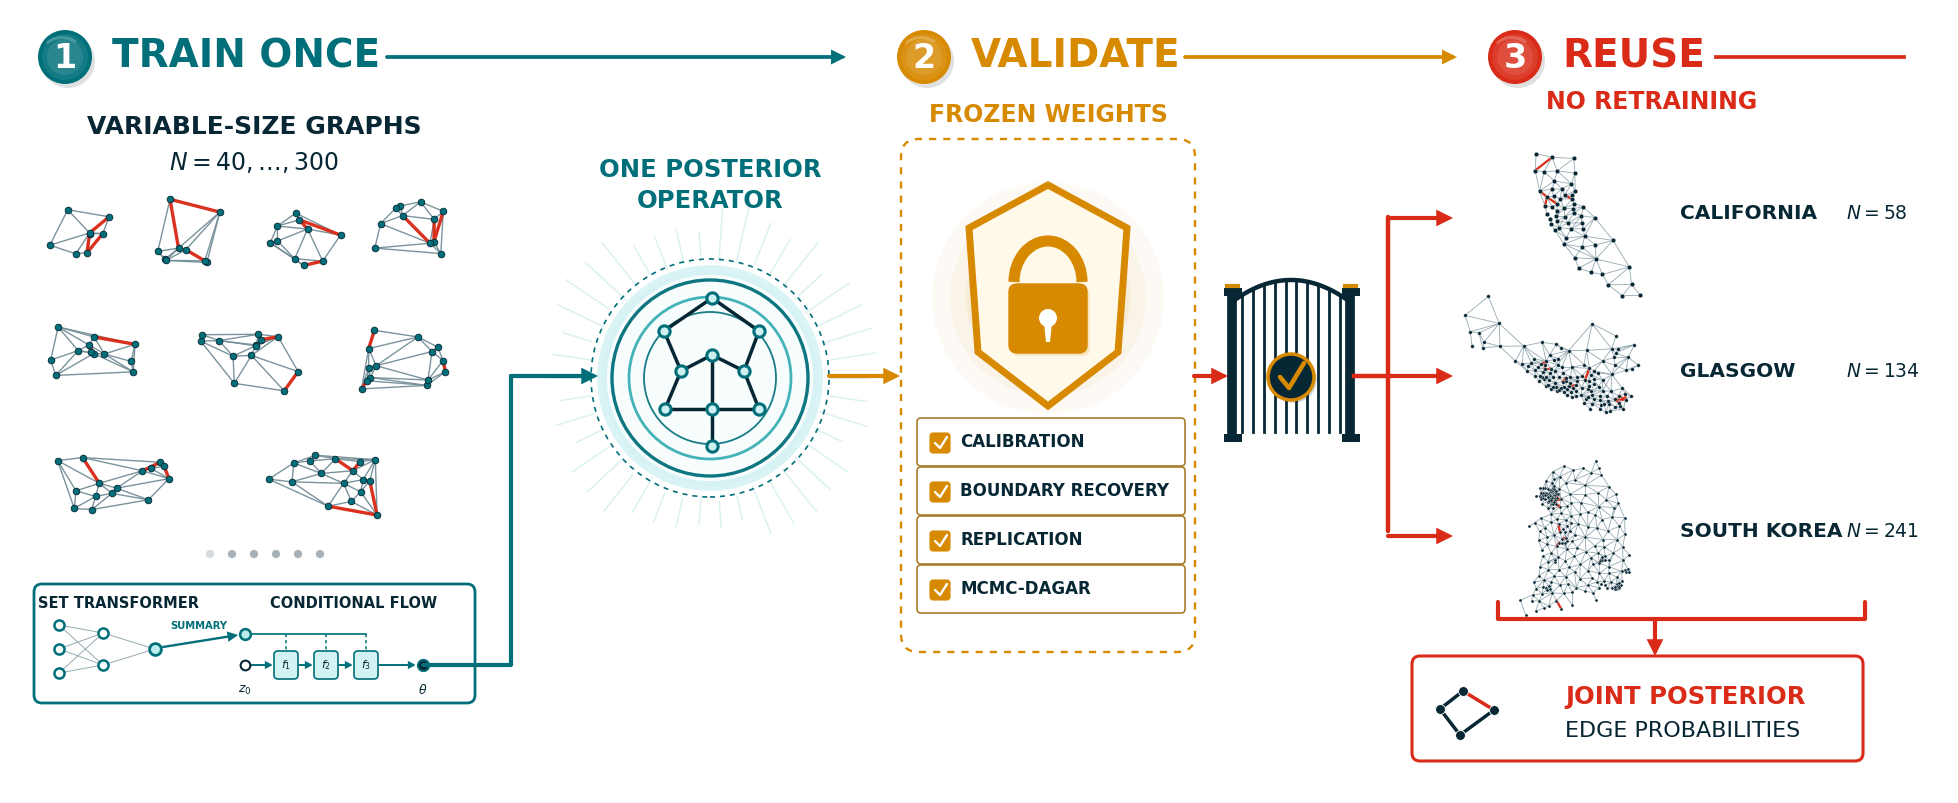
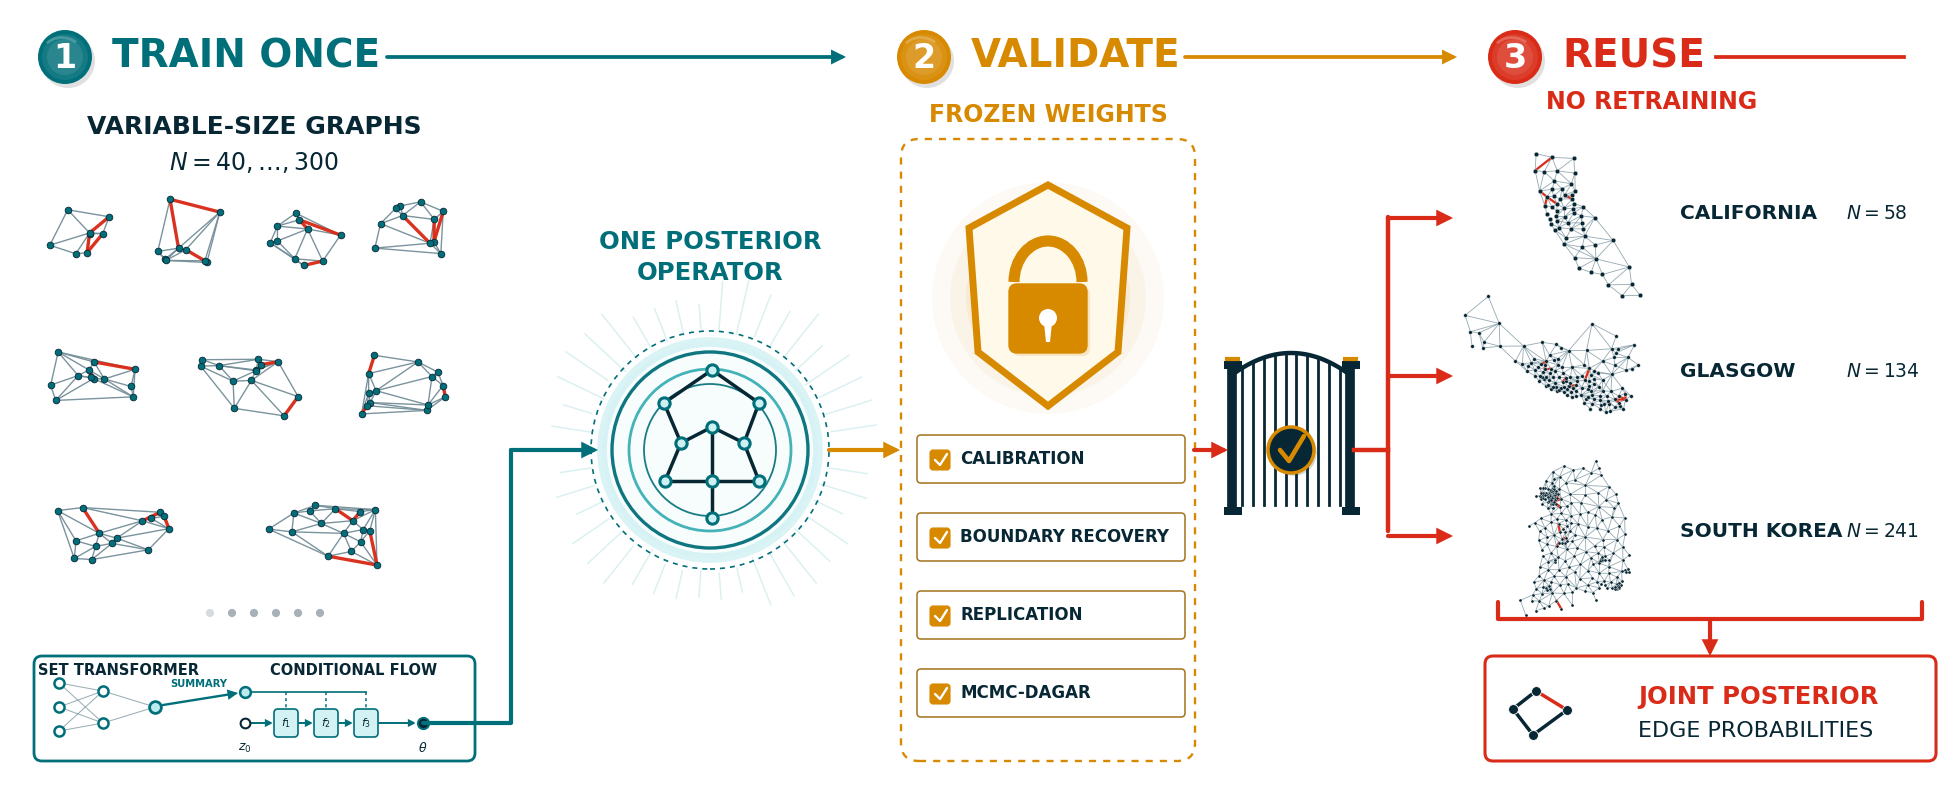
Align transformer and conditional flow connection

diff --git a/Figure Generation/generate_abi_workflow.py b/Figure Generation/generate_abi_workflow.py
@@ -226,25 +226,25 @@ def draw_training_graphs(axis):
     axis.text(254, 641, r"$N=40,\ldots,300$", ha="center", va="center", color=INK, fontsize=17)
     positions = (
         (88, 570), (195, 570), (303, 570), (410, 570),
-        (95, 445), (250, 445), (405, 445),
-        (112, 320), (315, 320),
+        (95, 420), (250, 420), (405, 420),
+        (112, 270), (315, 270),
     )
     node_counts = (8, 9, 10, 11, 12, 13, 14, 15, 17)
     widths = (84, 91, 93, 94, 112, 118, 112, 145, 142)
     for index, (center, n_nodes, width) in enumerate(zip(positions, node_counts, widths)):
         draw_simulated_graph(axis, center, width, 75, n_nodes, 1800 + index)
     for index in range(6):
-        axis.add_patch(Circle((210 + index * 22, 249), 4.1, facecolor="#d5dcdf" if index == 0 else "#a6b2b8", edgecolor="none", zorder=3))
+        axis.add_patch(Circle((210 + index * 22, 190), 4.1, facecolor="#d5dcdf" if index == 0 else "#a6b2b8", edgecolor="none", zorder=3))
 
 
 def draw_network_block(axis):
-    rounded_box(axis, (34, 100), 441, 119, TEAL, linewidth=2.0, radius=8, shadow=True)
-    axis.text(118, 200, "SET TRANSFORMER", color=INK, fontsize=10.5, weight="bold", ha="center", va="center")
-    axis.text(354, 200, "CONDITIONAL FLOW", color=INK, fontsize=10.5, weight="bold", ha="center", va="center")
+    rounded_box(axis, (34, 42), 441, 105, TEAL, linewidth=2.0, radius=8, shadow=True)
+    axis.text(118, 133, "SET TRANSFORMER", color=INK, fontsize=10.5, weight="bold", ha="center", va="center")
+    axis.text(354, 133, "CONDITIONAL FLOW", color=INK, fontsize=10.5, weight="bold", ha="center", va="center")
 
-    set_nodes = np.array([[59, 130], [59, 154], [59, 178]])
-    attention_nodes = np.array([[103, 138], [103, 170]])
-    summary_node = np.array([[155, 154]])
+    set_nodes = np.array([[59, 72], [59, 96], [59, 120]])
+    attention_nodes = np.array([[103, 80], [103, 112]])
+    summary_node = np.array([[155, 96]])
     for source in set_nodes:
         for target in attention_nodes:
             axis.plot([source[0], target[0]], [source[1], target[1]], color=EDGE, linewidth=0.75, alpha=0.72, zorder=3)
@@ -255,34 +255,34 @@ def draw_network_block(axis):
         axis.scatter(points[:, 0], points[:, 1], s=53, facecolor=WHITE, edgecolor=TEAL, linewidth=1.8, zorder=5)
     axis.scatter(summary_node[:, 0], summary_node[:, 1], s=72, facecolor=TEAL_LIGHT, edgecolor=TEAL, linewidth=2.0, zorder=6)
 
-    context_node = (245, 169)
-    arrow(axis, (163, 156), (238, 168), TEAL, linewidth=1.7, mutation_scale=12)
-    axis.text(199, 172, "SUMMARY", color=TEAL, fontsize=7.2, weight="bold", ha="center", va="bottom")
+    context_node = (245, 111)
+    arrow(axis, (163, 98), (238, 110), TEAL, linewidth=1.7, mutation_scale=12)
+    axis.text(199, 114, "SUMMARY", color=TEAL, fontsize=7.2, weight="bold", ha="center", va="bottom")
     axis.scatter([context_node[0]], [context_node[1]], s=60, facecolor=TEAL_LIGHT, edgecolor=TEAL, linewidth=1.8, zorder=6)
 
-    base_node = (245, 138)
+    base_node = (245, 80)
     axis.scatter([base_node[0]], [base_node[1]], s=49, facecolor=WHITE, edgecolor=INK, linewidth=1.5, zorder=6)
-    axis.text(base_node[0], 113, r"$z_0$", color=INK, fontsize=9.0, ha="center", va="center")
+    axis.text(base_node[0], 55, r"$z_0$", color=INK, fontsize=9.0, ha="center", va="center")
     flow_centers = (286, 326, 366)
     previous_x = base_node[0] + 5
     for index, x in enumerate(flow_centers, start=1):
-        arrow(axis, (previous_x, 138), (x - 13, 138), TEAL, linewidth=1.4, mutation_scale=9, zorder=5)
-        rounded_box(axis, (x - 12, 124), 24, 28, TEAL, facecolor=blend(TEAL_LIGHT, amount=0.35), linewidth=1.2, radius=4, zorder=6)
-        axis.text(x, 138, rf"$f_{index}$", color=INK, fontsize=8.0, ha="center", va="center", zorder=7)
-        axis.plot([x, x], [169, 153], color=TEAL, linewidth=1.1, linestyle=(0, (2, 2)), zorder=4)
+        arrow(axis, (previous_x, 80), (x - 13, 80), TEAL, linewidth=1.4, mutation_scale=9, zorder=5)
+        rounded_box(axis, (x - 12, 66), 24, 28, TEAL, facecolor=blend(TEAL_LIGHT, amount=0.35), linewidth=1.2, radius=4, zorder=6)
+        axis.text(x, 80, rf"$f_{index}$", color=INK, fontsize=8.0, ha="center", va="center", zorder=7)
+        axis.plot([x, x], [111, 95], color=TEAL, linewidth=1.1, linestyle=(0, (2, 2)), zorder=4)
         previous_x = x + 13
-    axis.plot([context_node[0], flow_centers[-1]], [169, 169], color=TEAL, linewidth=1.2, zorder=4)
+    axis.plot([context_node[0], flow_centers[-1]], [111, 111], color=TEAL, linewidth=1.2, zorder=4)
 
-    posterior_node = (423, 138)
-    arrow(axis, (previous_x, 138), (posterior_node[0] - 7, 138), TEAL, linewidth=1.4, mutation_scale=9, zorder=5)
+    posterior_node = (423, 80)
+    arrow(axis, (previous_x, 80), (posterior_node[0] - 7, 80), TEAL, linewidth=1.4, mutation_scale=9, zorder=5)
     axis.scatter([posterior_node[0]], [posterior_node[1]], s=66, facecolor=INK, edgecolor=TEAL, linewidth=1.4, zorder=6)
-    axis.text(posterior_node[0], 113, r"$\theta$", color=INK, fontsize=9.0, ha="center", va="center")
-    axis.plot([423, 475, 511, 511], [138, 138, 138, 427], color=TEAL, linewidth=3.0, solid_capstyle="round", zorder=7)
-    arrow(axis, (511, 427), (598, 427), TEAL, linewidth=3.0, mutation_scale=18)
+    axis.text(posterior_node[0], 55, r"$\theta$", color=INK, fontsize=9.0, ha="center", va="center")
+    axis.plot([423, 475, 511, 511], [80, 80, 80, 353], color=TEAL, linewidth=3.0, solid_capstyle="round", zorder=7)
+    arrow(axis, (511, 353), (598, 353), TEAL, linewidth=3.0, mutation_scale=18)
 
 
 def draw_posterior_operator(axis):
-    center = np.array([710.0, 425.0])
+    center = np.array([710.0, 353.0])
     rng = np.random.default_rng(4021)
     for angle in np.linspace(0, 2 * np.pi, 42, endpoint=False):
         inner = 118 + rng.uniform(-4, 6)
@@ -300,15 +300,15 @@ def draw_posterior_operator(axis):
     ):
         axis.add_patch(Circle(center, radius, facecolor="none", edgecolor=color, linewidth=linewidth, alpha=alpha, linestyle=linestyle, zorder=3))
     nodes = np.array(
-        [[664, 472], [712, 505], [759, 472], [681, 432], [712, 448], [744, 432], [665, 394], [712, 394], [759, 394], [712, 357]]
+        [[664, 400], [712, 433], [759, 400], [681, 360], [712, 376], [744, 360], [665, 322], [712, 322], [759, 322], [712, 285]]
     )
     links = ((0, 1), (1, 2), (0, 3), (2, 5), (3, 4), (4, 5), (3, 6), (4, 7), (5, 8), (6, 7), (7, 8), (7, 9))
     for first, second in links:
         axis.plot(nodes[[first, second], 0], nodes[[first, second], 1], color=INK, linewidth=2.5, zorder=5)
     axis.scatter(nodes[:, 0], nodes[:, 1], s=66, facecolor=blend(TEAL_LIGHT, amount=0.25), edgecolor=TEAL, linewidth=2.2, zorder=6)
-    axis.text(710, 626, "ONE POSTERIOR", ha="center", color=TEAL, fontsize=17.5, weight="bold")
-    axis.text(710, 595, "OPERATOR", ha="center", color=TEAL, fontsize=17.5, weight="bold")
-    arrow(axis, (829, 427), (900, 427), AMBER, linewidth=3.0, mutation_scale=18)
+    axis.text(710, 554, "ONE POSTERIOR", ha="center", color=TEAL, fontsize=17.5, weight="bold")
+    axis.text(710, 523, "OPERATOR", ha="center", color=TEAL, fontsize=17.5, weight="bold")
+    arrow(axis, (829, 353), (900, 353), AMBER, linewidth=3.0, mutation_scale=18)
 
 
 def draw_shield(axis):
@@ -326,10 +326,10 @@ def draw_shield(axis):
 
 def draw_validation(axis):
     axis.text(1048, 681, "FROZEN WEIGHTS", ha="center", color=AMBER, fontsize=17, weight="bold")
-    rounded_box(axis, (901, 151), 294, 513, AMBER, facecolor="none", linewidth=1.7, radius=18, linestyle=(0, (3, 3)), zorder=2)
+    rounded_box(axis, (901, 42), 294, 622, AMBER, facecolor="none", linewidth=1.7, radius=18, linestyle=(0, (3, 3)), zorder=2)
     draw_shield(axis)
     for index, label in enumerate(("CALIBRATION", "BOUNDARY RECOVERY", "REPLICATION", "MCMC-DAGAR")):
-        y = 337 - index * 49
+        y = 320 - index * 78
         rounded_box(axis, (917, y), 268, 48, "#a67824", facecolor=WHITE, linewidth=1.15, radius=4, shadow=index == 0, zorder=5)
         rounded_box(axis, (930, y + 13), 20, 20, AMBER, facecolor=AMBER, linewidth=0.8, radius=3, zorder=6)
         axis.plot([935, 940, 947], [y + 23, y + 18, y + 29], color=WHITE, linewidth=1.7, solid_capstyle="round", zorder=7)
@@ -338,7 +338,7 @@ def draw_validation(axis):
 
 def draw_gate(axis):
     x_left, x_right = 1232, 1350
-    y_bottom, y_top = 368, 508
+    y_bottom, y_top = 295, 435
     axis.plot([x_left, x_left], [y_bottom, y_top], color=INK, linewidth=7, zorder=5)
     axis.plot([x_right, x_right], [y_bottom, y_top], color=INK, linewidth=7, zorder=5)
     for x in (x_left, x_right):
@@ -351,11 +351,11 @@ def draw_gate(axis):
     curve_x = np.linspace(x_left + 4, x_right - 4, 120)
     curve_y = y_top + 15 - 0.0063 * (curve_x - (x_left + x_right) / 2) ** 2
     axis.plot(curve_x, curve_y, color=INK, linewidth=3.2, zorder=5)
-    medallion = Circle((1291, 426), 23, facecolor=INK, edgecolor=AMBER, linewidth=2.5, zorder=8)
+    medallion = Circle((1291, 353), 23, facecolor=INK, edgecolor=AMBER, linewidth=2.5, zorder=8)
     axis.add_patch(medallion)
     add_shadow(medallion, offset=(2, -2), alpha=0.18)
-    axis.plot([1280, 1289, 1304], [426, 415, 440], color=AMBER, linewidth=3.3, solid_capstyle="round", zorder=9)
-    arrow(axis, (1194, 427), (1228, 427), CORAL, linewidth=3.0, mutation_scale=18)
+    axis.plot([1280, 1289, 1304], [353, 342, 367], color=AMBER, linewidth=3.3, solid_capstyle="round", zorder=9)
+    arrow(axis, (1194, 353), (1228, 353), CORAL, linewidth=3.0, mutation_scale=18)
 
 
 def load_application_graph(spec):
@@ -414,20 +414,20 @@ def draw_application_graph(axis, spec):
 def draw_reuse(axis):
     axis.text(1652, 694, "NO RETRAINING", ha="center", color=CORAL, fontsize=17, weight="bold")
     axis.plot([1388, 1388], [272, 586], color=CORAL, linewidth=3.2, solid_capstyle="round", zorder=6)
-    axis.plot([1354, 1388], [427, 427], color=CORAL, linewidth=3.2, zorder=6)
+    axis.plot([1354, 1388], [353, 353], color=CORAL, linewidth=3.2, zorder=6)
     for y in (585, 427, 267):
         arrow(axis, (1388, y), (1453, y), CORAL, linewidth=3.0, mutation_scale=18)
     for spec in APPLICATIONS:
         draw_application_graph(axis, spec)
-    axis.plot([1498, 1498, 1865, 1865], [201, 184, 184, 201], color=CORAL, linewidth=3.0, solid_capstyle="round", zorder=6)
-    arrow(axis, (1655, 184), (1655, 147), CORAL, linewidth=3.0, mutation_scale=18)
-    rounded_box(axis, (1412, 42), 451, 105, CORAL, facecolor=WHITE, linewidth=2.2, radius=8, shadow=True, zorder=4)
-    nodes = np.array([[1440, 94], [1463, 112], [1494, 93], [1460, 68]])
+    axis.plot([1498, 1498, 1922, 1922], [201, 184, 184, 201], color=CORAL, linewidth=3.0, solid_capstyle="round", zorder=6)
+    arrow(axis, (1710, 184), (1710, 147), CORAL, linewidth=3.0, mutation_scale=18)
+    rounded_box(axis, (1485, 42), 451, 105, CORAL, facecolor=WHITE, linewidth=2.2, radius=8, shadow=True, zorder=4)
+    nodes = np.array([[1513, 94], [1536, 112], [1567, 93], [1533, 68]])
     for index, (first, second) in enumerate(((0, 1), (1, 2), (0, 3), (2, 3))):
         axis.plot(nodes[[first, second], 0], nodes[[first, second], 1], color=CORAL if index == 1 else INK, linewidth=2.5, zorder=6)
     axis.scatter(nodes[:, 0], nodes[:, 1], s=50, facecolor=INK, edgecolor=WHITE, linewidth=0.6, zorder=7)
-    axis.text(1565, 106, "JOINT POSTERIOR", color=CORAL, fontsize=17.5, weight="bold", va="center", zorder=7)
-    axis.text(1565, 72, "EDGE PROBABILITIES", color=INK, fontsize=16, va="center", zorder=7)
+    axis.text(1638, 106, "JOINT POSTERIOR", color=CORAL, fontsize=17.5, weight="bold", va="center", zorder=7)
+    axis.text(1638, 72, "EDGE PROBABILITIES", color=INK, fontsize=16, va="center", zorder=7)
 
 
 def draw_background(axis):
